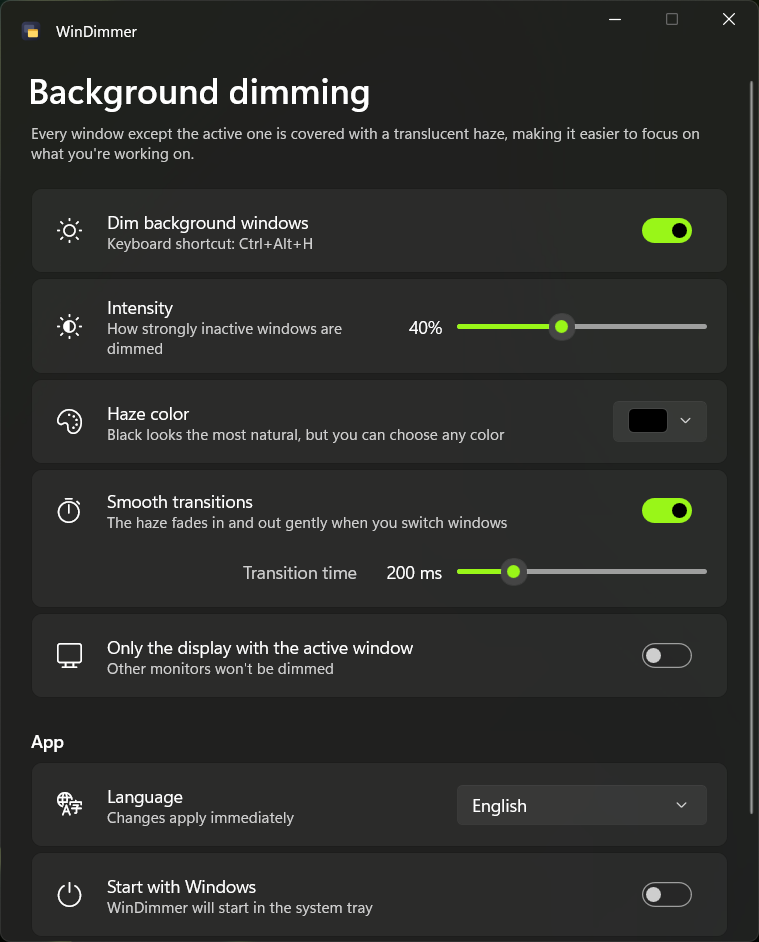
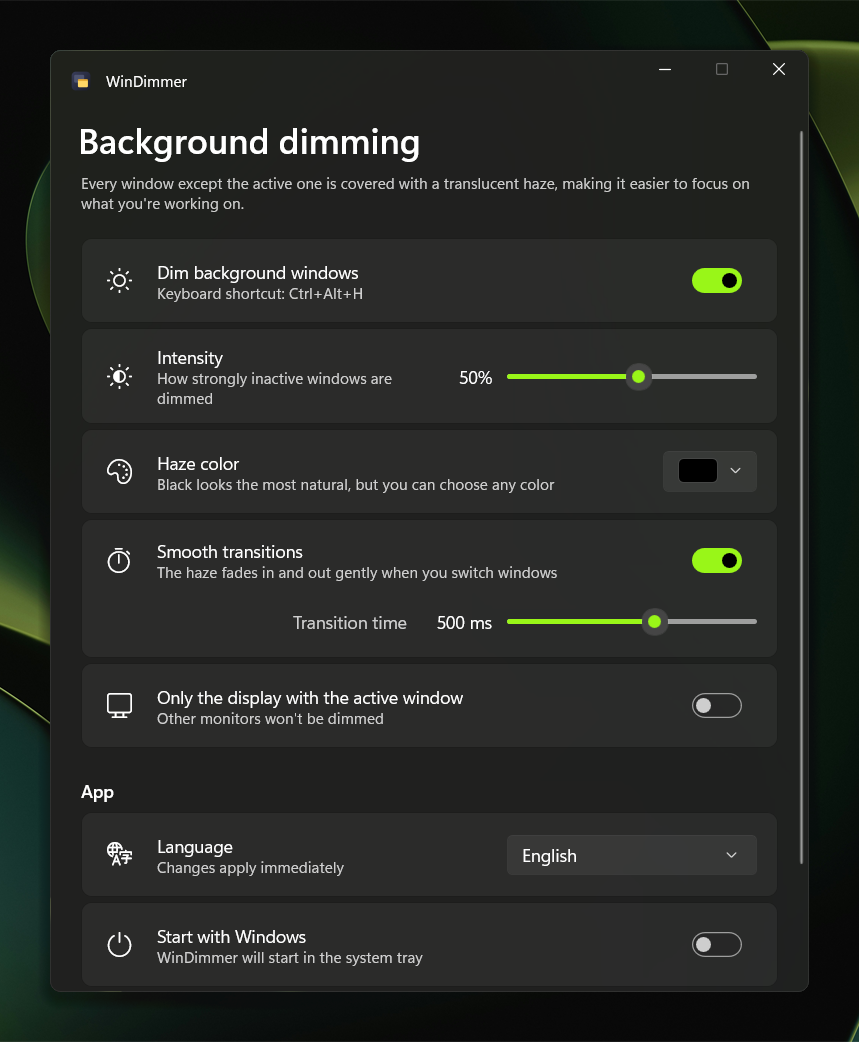
Release 1.0.1
- Default intensity 50% and transition time 500 ms
- Screenshot framed with the desktop wallpaper
- Release notes and changelog for 1.0.1

diff --git a/Core/AppSettings.cs b/Core/AppSettings.cs
@@ -17,14 +17,14 @@ internal sealed class AppSettings
     public bool Enabled { get; set; } = true;
 
     /// <summary>Haze opacity in percent.</summary>
-    public int Intensity { get; set; } = 40;
+    public int Intensity { get; set; } = 50;
 
     /// <summary>Haze color as #RRGGBB.</summary>
     public string Color { get; set; } = "#000000";
 
     public bool Animate { get; set; } = true;
 
-    public int FadeDurationMs { get; set; } = 200;
+    public int FadeDurationMs { get; set; } = 500;
 
     /// <summary>Dim only the display that contains the active window.</summary>
     public bool ActiveDisplayOnly { get; set; }

diff --git a/docs/release-notes-1.0.1.md b/docs/release-notes-1.0.1.md
@@ -1,0 +1,30 @@
+## Fixed
+
+- Opening the settings window no longer resets **Intensity** to 5% and **Transition time** to 50 ms. If 1.0.0 already overwrote your values, set them again once and they will stay.
+
+## Changed
+
+- New defaults: **50%** intensity and **500 ms** transition time. Existing settings are kept.
+
+## Download
+
+| Package | For |
+|---|---|
+| `WinDimmer-1.0.1-win-x64.zip` | most PCs (Intel / AMD) |
+| `WinDimmer-1.0.1-win-arm64.zip` | ARM PCs (e.g. Snapdragon X) |
+
+Unzip the package anywhere and run `WinDimmer.exe`. You don't need to install .NET or the Windows App SDK. To update, close WinDimmer (tray icon → Quit) and replace the folder with the new one.
+
+> The executable isn't code-signed yet, so Windows SmartScreen may warn you the first time you run it. Choose **More info → Run anyway**.
+
+SHA-256 checksums are in `SHA256SUMS.txt`.
+
+---
+
+## Poprawione
+
+- Otwarcie okna ustawień nie resetuje już **intensywności** do 5% ani **czasu przejścia** do 50 ms. Jeśli wersja 1.0.0 nadpisała Twoje wartości, ustaw je jeszcze raz, a zostaną zapamiętane.
+
+## Zmienione
+
+- Nowe wartości domyślne: intensywność **50%** i czas przejścia **500 ms**. Istniejące ustawienia zostają bez zmian.

diff --git a/CHANGELOG.md b/CHANGELOG.md
@@ -1,6 +1,9 @@
 # Changelog
 
-## [Unreleased]
+## [1.0.1] – 2026-10-08
+
+### Zmienione
+- Domyślna intensywność to teraz 50%, a domyślny czas przejścia 500 ms (dotyczy nowych instalacji)
 
 ### Poprawione
 - Otwarcie okna ustawień resetowało intensywność do 5% i czas przejścia do 50 ms
